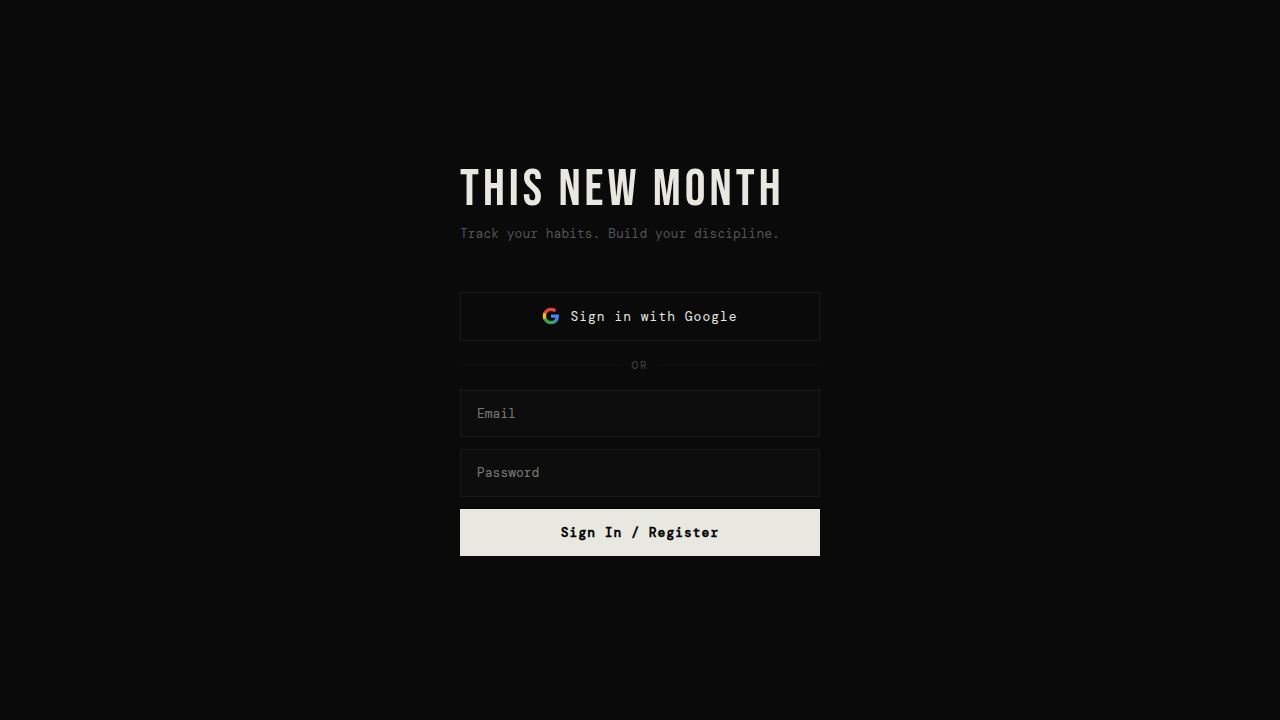
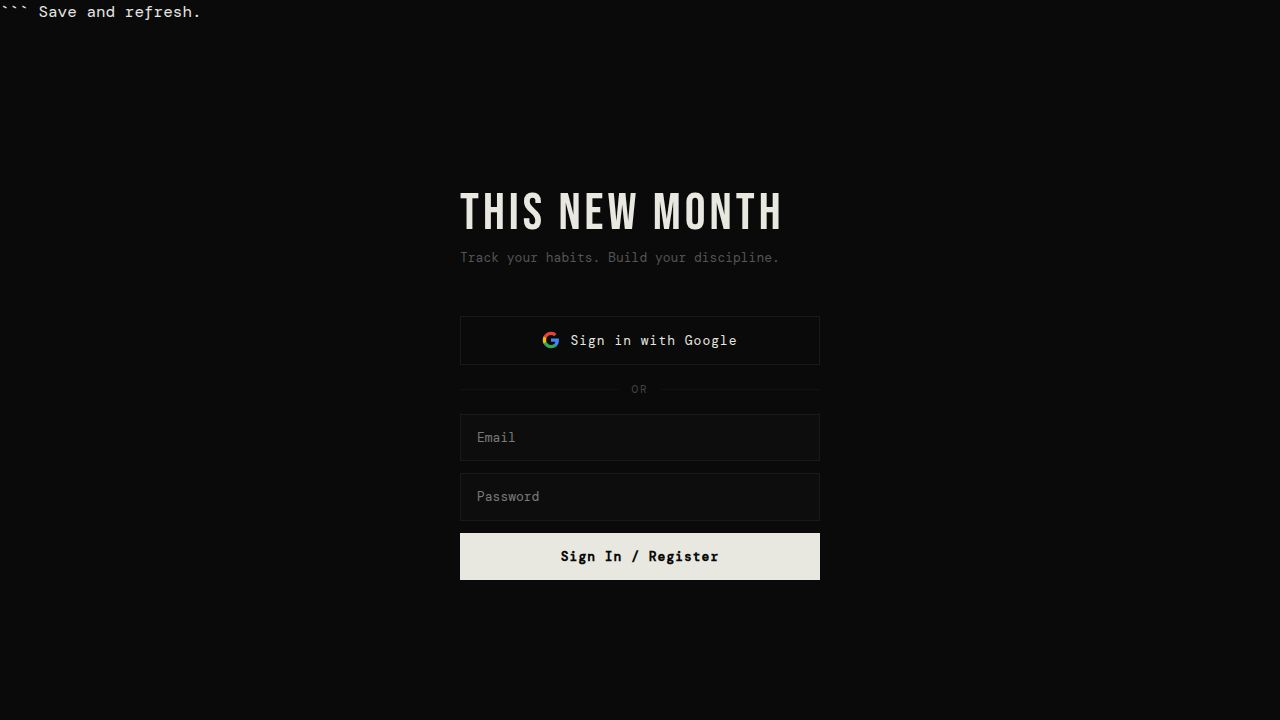
Fix duplicate task entries and improve loading performance
Resolve race conditions in authentication and habit fetching, implement automatic deduplication of existing habits, and optimize initial data loading.

Replit-Commit-Author: Agent
Replit-Commit-Session-Id: 686bf84b-7722-49c9-b668-2a41e143a63f
Replit-Commit-Checkpoint-Type: full_checkpoint
Replit-Commit-Event-Id: 58c117d7-a8cf-46b0-beff-9ec4d2b3fa7c
Replit-Commit-Screenshot-Url: https://storage.googleapis.com/screenshot-production-us-central1/27c169e4-e881-459c-a743-2426682943b5/686bf84b-7722-49c9-b668-2a41e143a63f/UTS3cWQ
Replit-Helium-Checkpoint-Created: true

diff --git a/artifacts/habit-tracker/src/App.tsx b/artifacts/habit-tracker/src/App.tsx
@@ -1,4 +1,4 @@
-import { useState, useEffect } from "react";
+import { useState, useEffect, useRef } from "react";
 import { supabase, Habit, DEFAULT_HABITS } from "@/lib/supabase";
 import type { User } from "@supabase/supabase-js";
 import AuthPage from "@/pages/AuthPage";
@@ -15,14 +15,21 @@ export default function App() {
   const [habits, setHabits] = useState<Habit[]>([]);
   const [tab, setTab] = useState<Tab>("today");
 
-  useEffect(() => {
-    supabase.auth.getSession().then(({ data }) => {
-      setUser(data.session?.user ?? null);
-      setAuthLoading(false);
-    });
+  // Guards against concurrent seeding
+  const seedingRef = useRef(false);
+  const fetchingRef = useRef(false);
 
-    const { data: { subscription } } = supabase.auth.onAuthStateChange((_event, session) => {
-      setUser(session?.user ?? null);
+  useEffect(() => {
+    // Use onAuthStateChange exclusively — it fires INITIAL_SESSION on load
+    // so we don't need getSession() as a separate trigger
+    const { data: { subscription } } = supabase.auth.onAuthStateChange((event, session) => {
+      const currentUser = session?.user ?? null;
+      setUser(currentUser);
+      setAuthLoading(false);
+
+      if (event === "SIGNED_OUT") {
+        setHabits([]);
+      }
     });
 
     return () => subscription.unsubscribe();
@@ -30,27 +37,72 @@ export default function App() {
 
   useEffect(() => {
     if (user) fetchHabits();
-  }, [user]);
+  }, [user?.id]); // depend on user.id, not the whole user object, to avoid extra triggers
 
-  async function fetchHabits() {
+  async function deduplicateHabits(userId: string): Promise<void> {
     const { data } = await supabase
       .from("habits")
       .select("*")
-      .order("position", { ascending: true });
-    const fetched = data || [];
+      .eq("user_id", userId)
+      .order("created_at", { ascending: true });
 
-    // Seed defaults if empty
-    if (fetched.length === 0 && user) {
-      await supabase.from("habits").insert(
-        DEFAULT_HABITS.map(h => ({ ...h, user_id: user.id }))
-      );
-      const { data: seeded } = await supabase
+    if (!data || data.length === 0) return;
+
+    // Group by label, keep the first (earliest) of each label
+    const seen = new Map<string, string>(); // label -> id to keep
+    const toDelete: string[] = [];
+
+    for (const habit of data) {
+      const key = habit.label.trim().toLowerCase();
+      if (seen.has(key)) {
+        toDelete.push(habit.id);
+      } else {
+        seen.set(key, habit.id);
+      }
+    }
+
+    if (toDelete.length > 0) {
+      await supabase.from("habits").delete().in("id", toDelete);
+    }
+  }
+
+  async function fetchHabits() {
+    if (fetchingRef.current) return;
+    fetchingRef.current = true;
+
+    try {
+      const { data: { user: currentUser } } = await supabase.auth.getUser();
+      if (!currentUser) return;
+
+      // Clean up any duplicates first
+      await deduplicateHabits(currentUser.id);
+
+      const { data } = await supabase
         .from("habits")
         .select("*")
+        .eq("user_id", currentUser.id)
         .order("position", { ascending: true });
-      setHabits(seeded || []);
-    } else {
-      setHabits(fetched);
+
+      const fetched = data || [];
+
+      if (fetched.length === 0 && !seedingRef.current) {
+        seedingRef.current = true;
+        await supabase.from("habits").insert(
+          DEFAULT_HABITS.map(h => ({ ...h, user_id: currentUser.id }))
+        );
+        seedingRef.current = false;
+
+        const { data: seeded } = await supabase
+          .from("habits")
+          .select("*")
+          .eq("user_id", currentUser.id)
+          .order("position", { ascending: true });
+        setHabits(seeded || []);
+      } else {
+        setHabits(fetched);
+      }
+    } finally {
+      fetchingRef.current = false;
     }
   }
 
@@ -82,7 +134,6 @@ export default function App() {
         minHeight: "100vh",
         position: "relative",
       }}>
-        {/* Main content */}
         {tab === "today" && <TodayTab habits={habits} onHabitsUpdate={fetchHabits} />}
         {tab === "calendar" && <CalendarTab habits={habits} />}
         {tab === "history" && <HistoryTab habits={habits} />}

diff --git a/artifacts/habit-tracker/src/components/EditHabitsModal.tsx b/artifacts/habit-tracker/src/components/EditHabitsModal.tsx
@@ -1,4 +1,4 @@
-import { useState, useEffect } from "react";
+import { useState } from "react";
 import { supabase, Habit, CATEGORY_COLORS, DEFAULT_HABITS } from "@/lib/supabase";
 
 type Props = {
@@ -42,9 +42,17 @@ export default function EditHabitsModal({ habits, onClose, onUpdate }: Props) {
     const { data: { user } } = await supabase.auth.getUser();
     if (!user) return;
     setLoading(true);
-    await supabase.from("habits").insert(
-      DEFAULT_HABITS.map(h => ({ ...h, user_id: user.id }))
-    );
+    // Double-check DB is truly empty before inserting
+    const { data: existing } = await supabase
+      .from("habits")
+      .select("id")
+      .eq("user_id", user.id)
+      .limit(1);
+    if (!existing || existing.length === 0) {
+      await supabase.from("habits").insert(
+        DEFAULT_HABITS.map(h => ({ ...h, user_id: user.id }))
+      );
+    }
     onUpdate();
     setLoading(false);
   }

diff --git a/artifacts/habit-tracker/index.html b/artifacts/habit-tracker/index.html
@@ -13,7 +13,11 @@
     <meta name="twitter:card" content="summary_large_image" />
     <meta name="twitter:title" content="This New Month" />
     <meta name="twitter:description" content="Track your habits. Build your discipline." />
-    <link rel="icon" href="/favicon.png" type="image/png" />
+
+    <link rel="icon" href="/favicon.jpg" type="image/jpg" />
+    ```
+
+    Save and refresh.
     <link rel="icon" href="/favicon.ico" sizes="any" />
     <link rel="preconnect" href="https://fonts.googleapis.com">
     <link rel="preconnect" href="https://fonts.gstatic.com" crossorigin>
